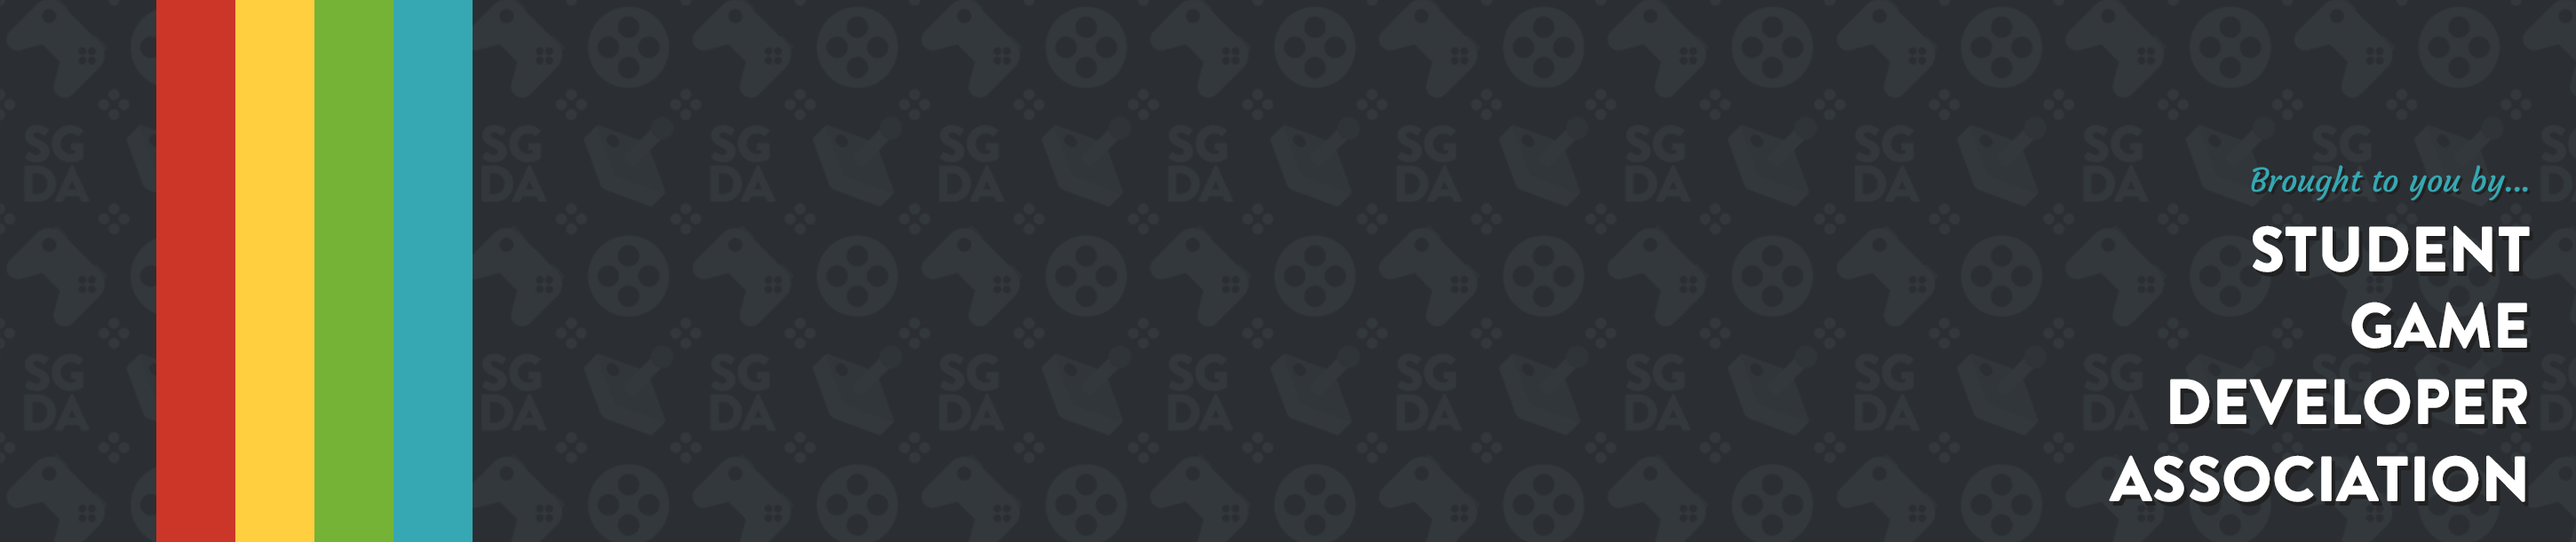
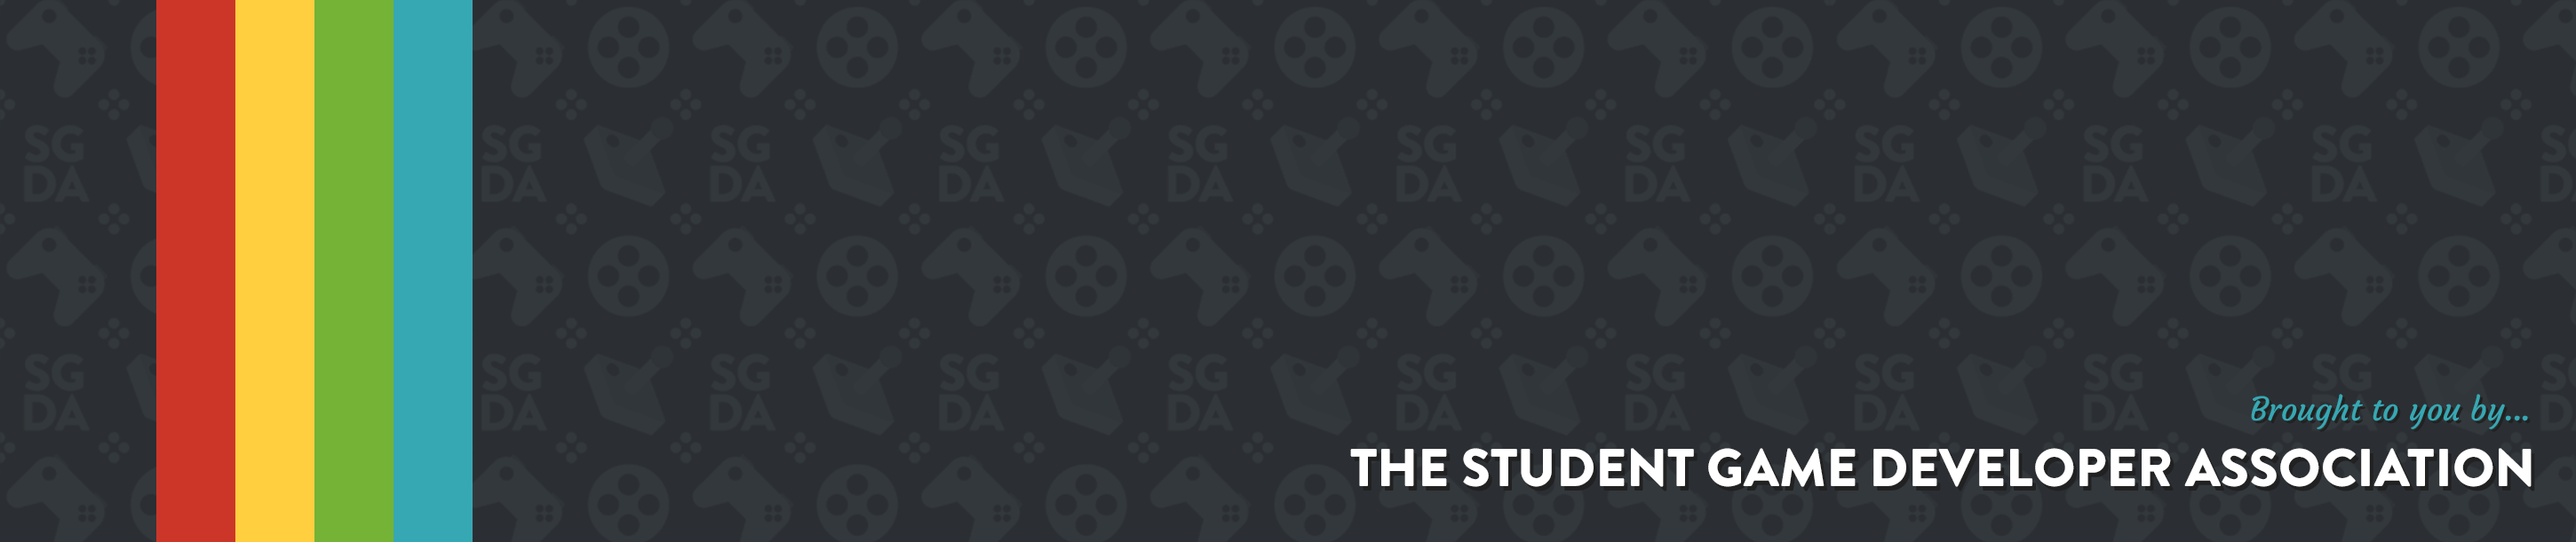
GitBook: [#19] No subject

diff --git a/README.md b/README.md
@@ -1,7 +1,7 @@
 ---
 description: Where you go, what you do, what is this place?
 cover: .gitbook/assets/Start here2.png
-coverY: 0
+coverY: -194.87691284098472
 ---
 
 # Start Here
